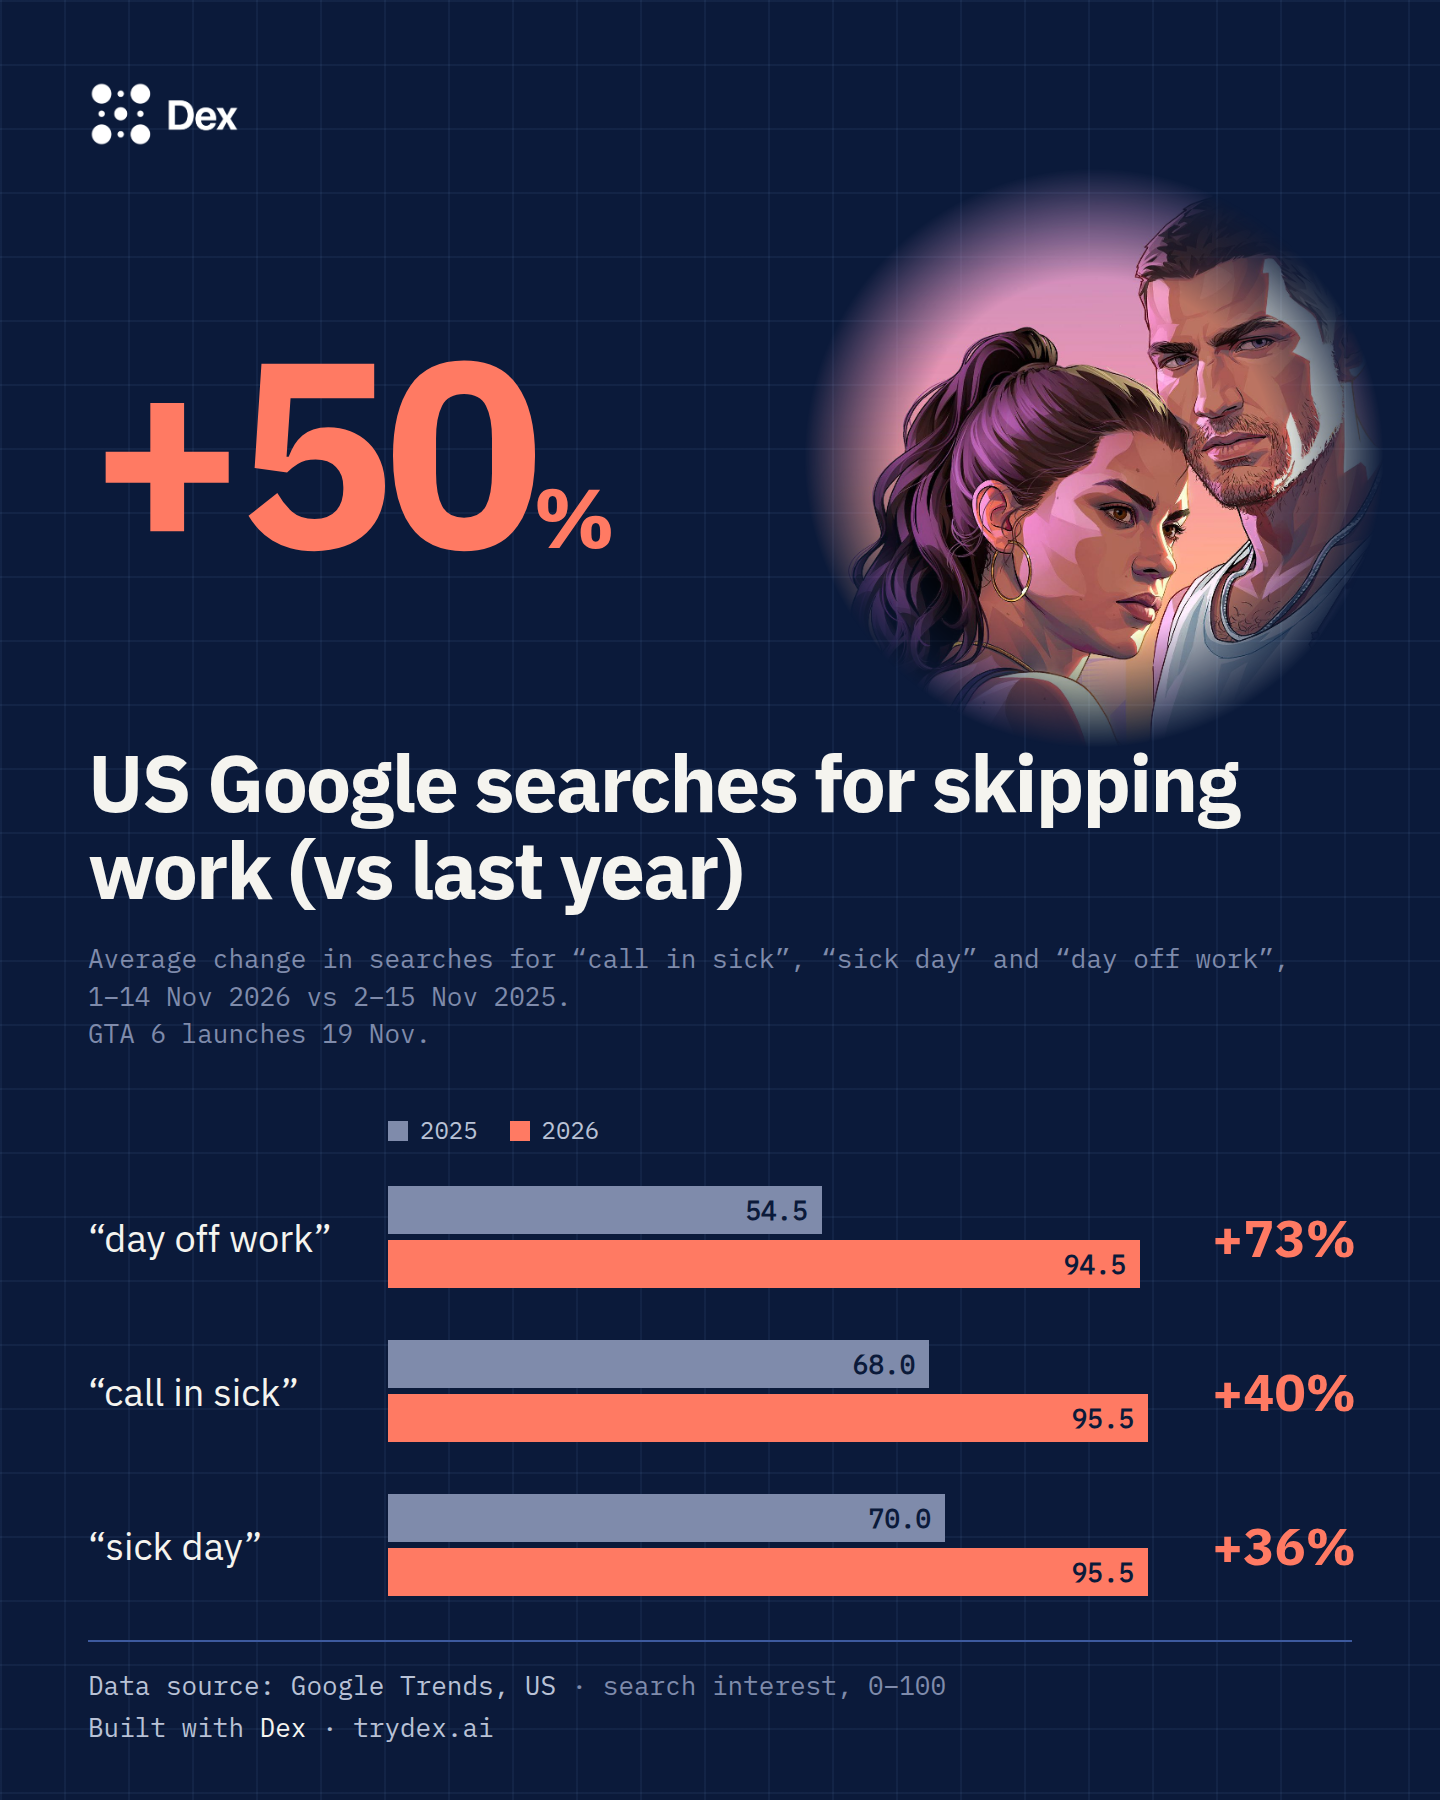
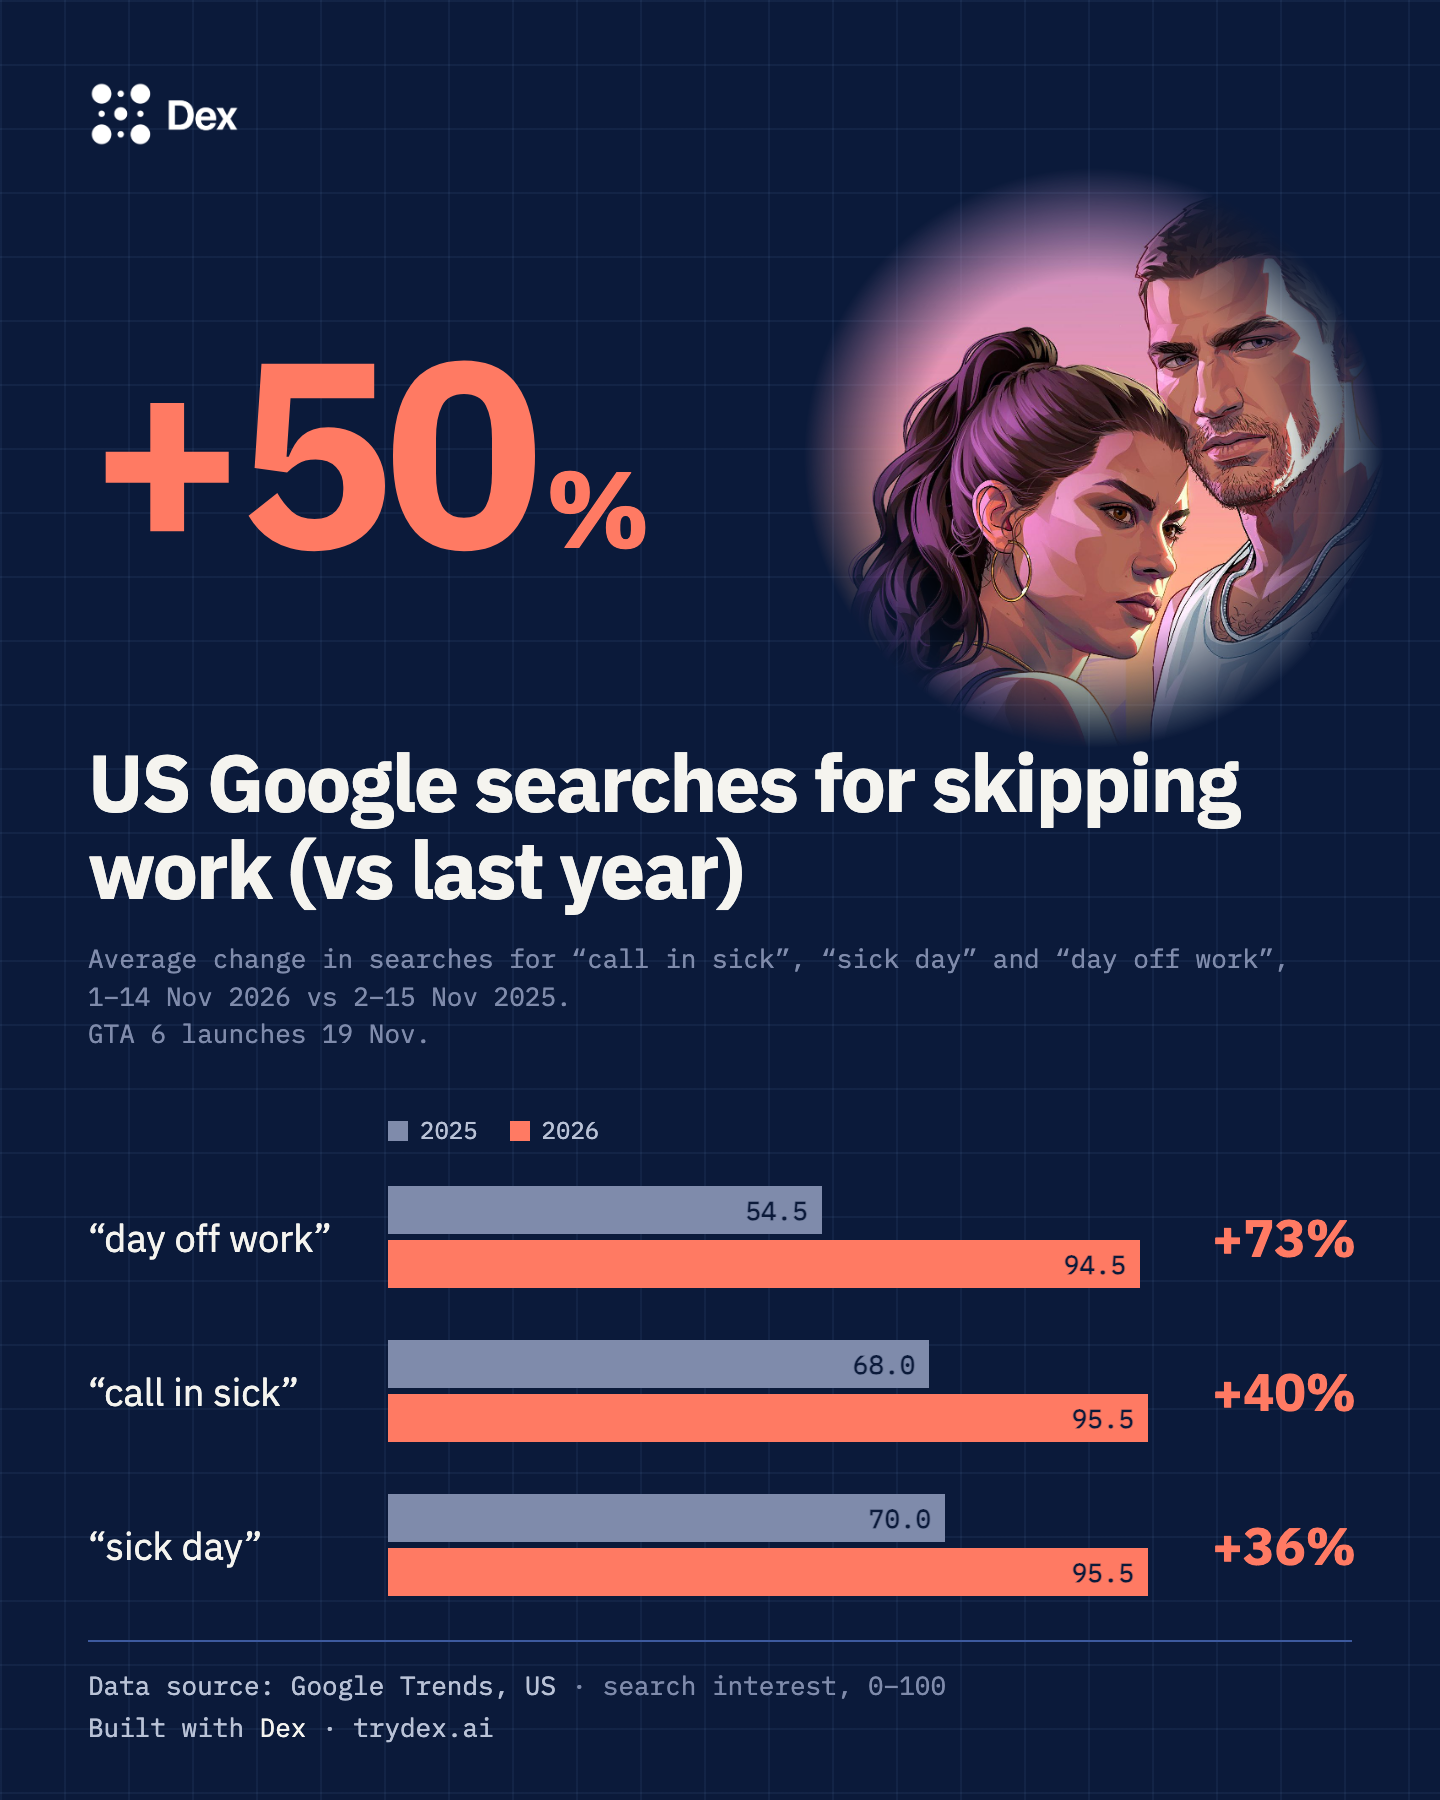
Restore the Built with Dex credits; give the headline % sign more size and room

diff --git a/site/index.html b/site/index.html
@@ -4,24 +4,24 @@
 <meta charset="utf-8">
 <meta name="viewport" content="width=device-width, initial-scale=1">
 <title>GTA 6 vs. Productivity: the Day-Off Index</title>
-<meta name="description" content="US Google searches for “call in sick”, “sick day” and “day off work”, 1–14 Nov 2026 vs 2–15 Nov 2025: call in sick +40.4% · day off work +73.4% · sick day +36.4%. Open data, open method.">
+<meta name="description" content="US Google searches for “call in sick”, “sick day” and “day off work”, 1–14 Nov 2026 vs 2–15 Nov 2025: call in sick +40.4% · day off work +73.4% · sick day +36.4%. An open, reproducible study built with Dex.">
 <link rel="canonical" href="https://exmergo.github.io/gta6-productivity-impact/">
 <link rel="icon" type="image/png" href="brand/assets/exmergo-mark-black.png">
 <meta property="og:type" content="website">
 <meta property="og:site_name" content="GTA 6 vs. Productivity">
 <meta property="og:url" content="https://exmergo.github.io/gta6-productivity-impact/">
 <meta property="og:title" content="Day-Off Index: +50%. Are Americans skipping work for GTA 6?">
-<meta property="og:description" content="US Google searches for “call in sick”, “sick day” and “day off work”, 1–14 Nov 2026 vs 2–15 Nov 2025: call in sick +40.4% · day off work +73.4% · sick day +36.4%. Open data, open method.">
+<meta property="og:description" content="US Google searches for “call in sick”, “sick day” and “day off work”, 1–14 Nov 2026 vs 2–15 Nov 2025: call in sick +40.4% · day off work +73.4% · sick day +36.4%. An open, reproducible study built with Dex.">
 <meta property="og:image" content="https://exmergo.github.io/gta6-productivity-impact/charts/png/day-off-index-light.png">
 <meta property="og:image:width" content="2400">
 <meta property="og:image:height" content="1260">
 <meta property="og:image:alt" content="Day-Off Index +50%: US Google searches for skipping work vs last year, call in sick +40.4% · day off work +73.4% · sick day +36.4%.">
 <meta name="twitter:card" content="summary_large_image">
 <meta name="twitter:title" content="Day-Off Index: +50%. Are Americans skipping work for GTA 6?">
-<meta name="twitter:description" content="US Google searches for “call in sick”, “sick day” and “day off work”, 1–14 Nov 2026 vs 2–15 Nov 2025: call in sick +40.4% · day off work +73.4% · sick day +36.4%. Open data, open method.">
+<meta name="twitter:description" content="US Google searches for “call in sick”, “sick day” and “day off work”, 1–14 Nov 2026 vs 2–15 Nov 2025: call in sick +40.4% · day off work +73.4% · sick day +36.4%. An open, reproducible study built with Dex.">
 <meta name="twitter:image" content="https://exmergo.github.io/gta6-productivity-impact/charts/png/day-off-index-light.png">
 <meta name="twitter:image:alt" content="Day-Off Index +50%: US Google searches for skipping work vs last year, call in sick +40.4% · day off work +73.4% · sick day +36.4%.">
-<script type="application/ld+json">{"@context": "https://schema.org", "@graph": [{"@type": "Dataset", "name": "GTA 6 vs. Productivity: the Day-Off Index", "description": "US Google searches for “call in sick”, “sick day” and “day off work”, 1–14 Nov 2026 vs 2–15 Nov 2025: call in sick +40.4% · day off work +73.4% · sick day +36.4%. Open data, open method.", "url": "https://exmergo.github.io/gta6-productivity-impact/", "sameAs": "https://github.com/exmergo/gta6-productivity-impact", "license": "https://www.apache.org/licenses/LICENSE-2.0", "creator": {"@type": "Organization", "name": "Exmergo", "url": "https://trydex.ai"}, "isAccessibleForFree": true, "spatialCoverage": "United States", "temporalCoverage": "2025-11-01/2026-11-14", "keywords": ["GTA 6", "productivity", "sick day", "call in sick", "Google Trends", "dbt"], "distribution": {"@type": "DataDownload", "encodingFormat": "application/json", "contentUrl": "https://exmergo.github.io/gta6-productivity-impact/charts/data/day-off-index.json"}}, {"@type": "FAQPage", "mainEntity": [{"@type": "Question", "name": "Are Americans searching for sick days more before GTA 6?", "acceptedAnswer": {"@type": "Answer", "text": "Yes. US Google searches for skipping work were up 50% on average, 1–14 Nov 2026 against 2–15 Nov 2025: “day off work” +73.4%, “call in sick” +40.4%, “sick day” +36.4%. GTA 6 launches on Thursday 19 November 2026."}}, {"@type": "Question", "name": "What is the Day-Off Index?", "acceptedAnswer": {"@type": "Answer", "text": "The average year-over-year change in US Google searches for “call in sick”, “sick day” and “day off work”. Each phrase compares its average weekly Google Trends interest over two weeks with the same weeks a year earlier. It is always shown with its breakdown."}}, {"@type": "Question", "name": "Did GTA 6 cause the rise?", "acceptedAnswer": {"@type": "Answer", "text": "We can't say. The rise lines up with the run-up to GTA 6, but this is an association, not proof of cause. Search interest has other drivers too."}}, {"@type": "Question", "name": "Is this how many people are taking the day off?", "acceptedAnswer": {"@type": "Answer", "text": "No. It measures Google search interest (a 0–100 index), not a headcount. People who book time off in an HR system don't search for it."}}, {"@type": "Question", "name": "How was it built?", "acceptedAnswer": {"@type": "Answer", "text": "From public Google Trends data, with a dbt project and a MetricFlow semantic layer that Dex wrote, tested and verifies on every refresh. The repository is open source and every number can be reproduced from it."}}]}]}</script>
+<script type="application/ld+json">{"@context": "https://schema.org", "@graph": [{"@type": "Dataset", "name": "GTA 6 vs. Productivity: the Day-Off Index", "description": "US Google searches for “call in sick”, “sick day” and “day off work”, 1–14 Nov 2026 vs 2–15 Nov 2025: call in sick +40.4% · day off work +73.4% · sick day +36.4%. An open, reproducible study built with Dex.", "url": "https://exmergo.github.io/gta6-productivity-impact/", "sameAs": "https://github.com/exmergo/gta6-productivity-impact", "license": "https://www.apache.org/licenses/LICENSE-2.0", "creator": {"@type": "Organization", "name": "Exmergo", "url": "https://trydex.ai"}, "isAccessibleForFree": true, "spatialCoverage": "United States", "temporalCoverage": "2025-11-01/2026-11-14", "keywords": ["GTA 6", "productivity", "sick day", "call in sick", "Google Trends", "dbt"], "distribution": {"@type": "DataDownload", "encodingFormat": "application/json", "contentUrl": "https://exmergo.github.io/gta6-productivity-impact/charts/data/day-off-index.json"}}, {"@type": "FAQPage", "mainEntity": [{"@type": "Question", "name": "Are Americans searching for sick days more before GTA 6?", "acceptedAnswer": {"@type": "Answer", "text": "Yes. US Google searches for skipping work were up 50% on average, 1–14 Nov 2026 against 2–15 Nov 2025: “day off work” +73.4%, “call in sick” +40.4%, “sick day” +36.4%. GTA 6 launches on Thursday 19 November 2026."}}, {"@type": "Question", "name": "What is the Day-Off Index?", "acceptedAnswer": {"@type": "Answer", "text": "The average year-over-year change in US Google searches for “call in sick”, “sick day” and “day off work”. Each phrase compares its average weekly Google Trends interest over two weeks with the same weeks a year earlier. It is always shown with its breakdown."}}, {"@type": "Question", "name": "Did GTA 6 cause the rise?", "acceptedAnswer": {"@type": "Answer", "text": "We can't say. The rise lines up with the run-up to GTA 6, but this is an association, not proof of cause. Search interest has other drivers too."}}, {"@type": "Question", "name": "Is this how many people are taking the day off?", "acceptedAnswer": {"@type": "Answer", "text": "No. It measures Google search interest (a 0–100 index), not a headcount. People who book time off in an HR system don't search for it."}}, {"@type": "Question", "name": "How was it built?", "acceptedAnswer": {"@type": "Answer", "text": "From public Google Trends data, with a dbt project and a MetricFlow semantic layer that Dex wrote, tested and verifies on every refresh. The repository is open source and every number can be reproduced from it."}}]}]}</script>
 <link rel="stylesheet" href="brand/dex-site.css">
 <script>
   try {
@@ -63,7 +63,7 @@
 <main>
 <header>
   <img id="logo" alt="Dex" src="brand/assets/dex-logo-black.png">
-  <span class="meta">GTA 6 vs. productivity · updated 2026-11-16 23:53 UTC</span>
+  <span class="meta">GTA 6 vs. productivity · updated 2026-11-16 23:55 UTC</span>
 </header>
 <h1>Day-Off Index: <em>+50%</em>.</h1>
 <p class="lede">US Google searches for skipping work, 1–14 Nov 2026 against 2–15 Nov 2025: call in sick +40.4% · day off work +73.4% · sick day +36.4%. The index is the average of the three. GTA 6 comes out on Thursday 19 November.</p>

diff --git a/brand/charts.css b/brand/charts.css
@@ -48,7 +48,7 @@ h1 .red { color: var(--dex-redline); }
 /* Hero: the number, the headline, then the breakdown */
 .hero { display: flex; flex-direction: column; justify-content: center; gap: 40px; flex: 1; }
 .big { font-size: 112px; line-height: .8; letter-spacing: -5px; font-weight: 700; color: var(--dex-redline); }
-.big small { font-size: 42px; letter-spacing: -1px; }
+.big small { font-size: 54px; letter-spacing: 0; margin-left: 6px; }
 .hero h1 { margin-top: 18px; font-size: 32px; letter-spacing: -0.9px; }
 .fine { margin: 8px 0 0; font: 12px/1.45 var(--font-mono); color: var(--dex-ink-faint); }
 

diff --git a/src/gta6_impact/site.py b/src/gta6_impact/site.py
@@ -242,7 +242,7 @@ def build_site(summary: dict) -> None:
     description = (
         f"US Google searches for “call in sick”, “sick day” and “day off work”, "
         f"{summary['current_window']} vs {summary['prior_window']}: {summary['breakdown']}. "
-        "Open data, open method."
+        "An open, reproducible study built with Dex."
     )
     image_alt = (
         f"Day-Off Index {headline_text}: US Google searches for skipping work vs last year, "
@@ -286,7 +286,7 @@ def _crawlers(summary: dict, faq: list[tuple[str, str]]) -> None:
     (SITE / "llms.txt").write_text(
         "# GTA 6 vs. Productivity\n\n"
         "> An open, reproducible study of whether Americans search for ways to skip work more "
-        "in the run-up to GTA 6 (released 19 November 2026).\n\n"
+        "in the run-up to GTA 6 (released 19 November 2026). Built with Dex.\n\n"
         f"Updated {today}. Day-Off Index: {_pct(summary.get('day_off_index'))} "
         f"({summary['breakdown']}), {summary['current_window']} vs {summary['prior_window']}. "
         "Search interest, not a headcount; association, not causation.\n\n"

diff --git a/README.md b/README.md
@@ -1,7 +1,8 @@
 # GTA 6 vs. Productivity
 
 **Are Americans skipping work for GTA 6? An open, reproducible study of US Google searches for
-"call in sick", "sick day" and "day off work", against the same weeks last year.** Live scoreboard: **[exmergo.github.io/gta6-productivity-impact](https://exmergo.github.io/gta6-productivity-impact/)**
+"call in sick", "sick day" and "day off work", built with [Dex](https://trydex.ai) on dbt and a
+semantic layer.** Live scoreboard: **[exmergo.github.io/gta6-productivity-impact](https://exmergo.github.io/gta6-productivity-impact/)**
 
 <picture>
   <source media="(prefers-color-scheme: dark)" srcset="charts/png/day-off-index-dark.png">
